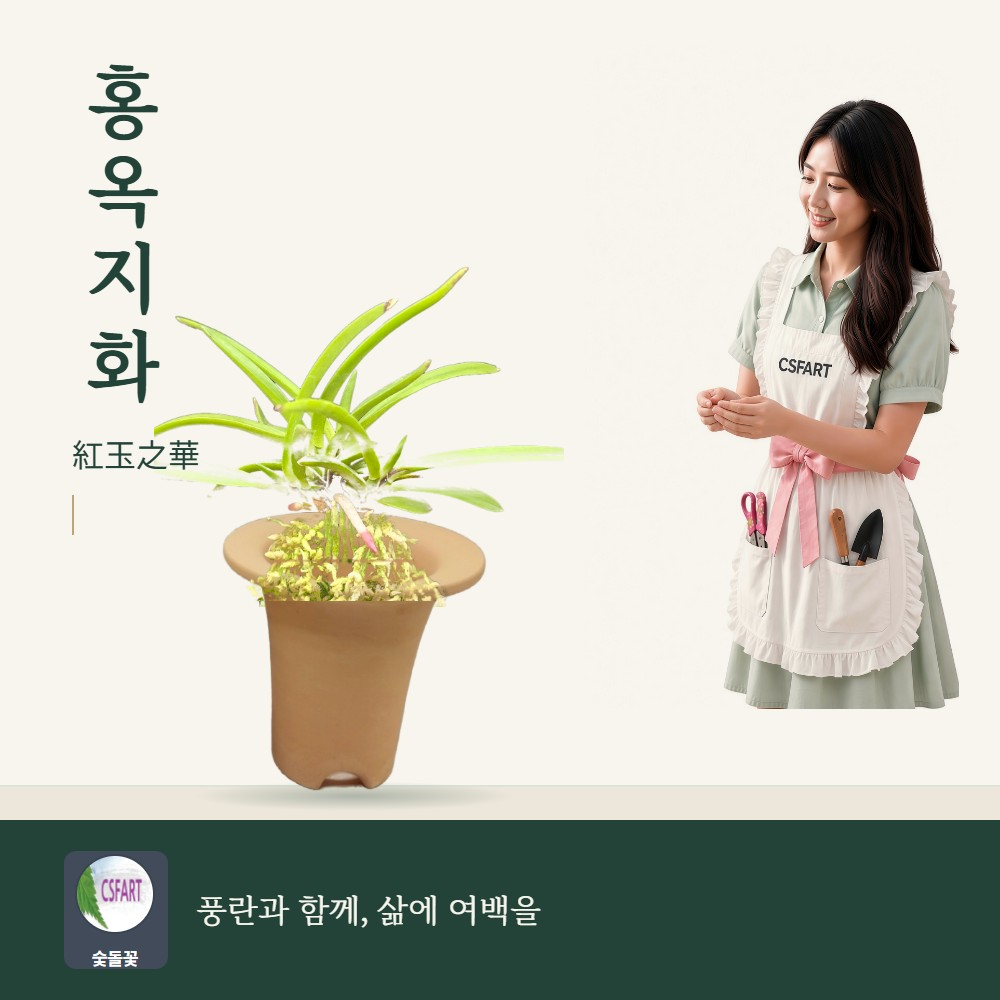
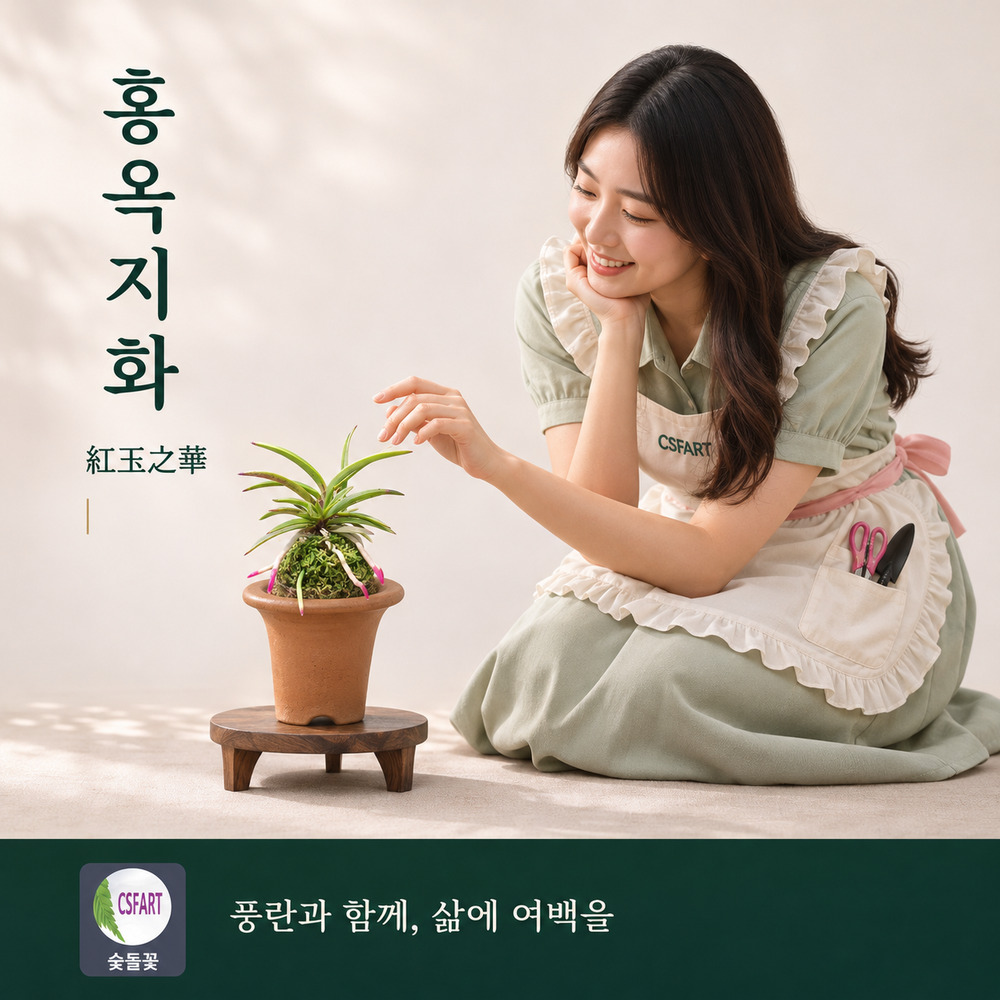
Publish Hongokjihwa 0001 with approved brand and buy links

diff --git a/index.html b/index.html
@@ -1,3 +1,3 @@
 <!DOCTYPE html>
 
-<html lang="ko"><head><script defer="True" src="https://gomire-csfart.github.io/analytics.js"></script><meta charset="utf-8"/><meta content="width=device-width,initial-scale=1" name="viewport"/><meta content="index,follow" name="robots"/><meta content="풍란·부귀란 품종별 실물사진과 개체별 상품정보를 소개하는 숯돌꽃 난농원 CSFART 카탈로그." name="description"/><link href="https://gomire-csfart.github.io/csfart-catalog/" rel="canonical"/><title>풍란·부귀란 품종 카탈로그 | 숯돌꽃 난농원 CSFART</title><link href="assets/site.css" rel="stylesheet"/><link href="assets/catalog-search.css" rel="stylesheet"/></head><body><header><div class="brandbar"><a class="brand" href="index.html"><img alt="CSFART" src="assets/logo.png"/><span><b>CSFART</b><small>숯돌꽃 난농원</small></span></a><span class="private">CSFART 상품 안내</span></div><div class="catalog-search-shell"><form action="search.html" class="catalog-search-form" method="get" role="search"><label class="sr-only" for="catalog-search">품종 검색</label><input aria-label="품종 검색어" autocomplete="off" id="catalog-search" inputmode="search" maxlength="45" name="q" placeholder="품종명·초성·분류 검색  예) 비연, ㅂㅇ, 복륜" type="search"/><button class="catalog-search-submit" type="submit">검색</button></form><button aria-expanded="false" aria-label="품종 검색창 열기" class="catalog-search-toggle" type="button"><svg aria-hidden="true" height="22" viewbox="0 0 24 24" width="22"><circle cx="11" cy="11" fill="none" r="6.5" stroke="currentColor" stroke-width="2"></circle><path d="m16 16 5 5" stroke="currentColor" stroke-width="2"></path></svg><span>검색</span></button></div><nav aria-label="품종 분류"><a href="category/plain.html">무지</a><a href="category/stripe.html">호·중반</a><a href="category/margin.html">복륜</a><a href="category/special.html">특예</a><a href="category/pattern.html">호반</a><a href="category/flower.html">화물</a><a href="category/beginner.html">입문·기타란</a><a href="category/seokgok.html">석곡</a><a href="category/supplies.html">자재</a></nav><div aria-hidden="true" class="swipe-hint">옆으로 밀면 메뉴가 더 있어요 ›</div></header><main><section class="hero"><div class="eyebrow">CSFART ORCHID COLLECTION</div><h1>숯돌꽃 난농원</h1><p>실제 판매 개체 사진과 상세 설명으로 만나는 풍란 도감</p></section><h2>품종 둘러보기</h2><div class="cat-grid"><a class="cat" href="category/plain.html"><div class="cat-img"><img alt="동환 0001 대표 실사진" src="images/donghwan0001/actual_01.jpg"/></div><div class="cat-label"><strong>무지</strong><small>동환 0001 · 취선 1023 · 요산 1024 · 상품 3개</small></div></a><a class="cat" href="category/stripe.html"><div class="cat-img"><img alt="금광금 1521 황호 실사진" src="images/geumgwanggeum1521/actual_01.jpg"/></div><div class="cat-label"><strong>호·중반</strong><small>백결 · 금두 6121 · 보금 3811 · 금광금 1521 · 금직 4501 · 음풍 0001 · 직희 1001 · 백록 1023 · 대장금 1023 · 취월호 1209 · 무쌍금 1024 · 천지연 1026 · 상품 12건</small></div></a><a class="cat" href="category/margin.html"><div class="cat-img"><img alt="옥금 풍란 대표 실물사진" src="images/okgeum/actual_01.jpg"/></div><div class="cat-label"><strong>복륜</strong><small>옥금 · 서시 · 부귀전 1022 · 태백령 1023 · 백옥루 1024 · 서학 1026 · 상품 6개</small></div></a><a class="cat" href="category/special.html"><div class="cat-img"><img alt="흑악묵 1025 터지는 묵예 풍란 실사" src="images/heukakmuk1025/CSFART흑악묵_1025_01.jpg"/></div><div class="cat-label"><strong>특예</strong><small>흑악묵 1025 · 상품 1건</small></div></a><a class="cat" href="category/pattern.html"><div class="cat-img"><img alt="황귀전 0001 실물사진" src="images/hwangguijeon0001/actual_01.jpg"/></div><div class="cat-label"><strong>호반</strong><small>황귀전 0001 · 금루각 0002 · 천재호반 1023 · 금유황 0001 · 승문지광 0001 · 화영 0001 · 상품 6건</small></div></a><a class="cat" href="category/flower.html"><div class="cat-img"><img alt="홍풍 0001 비개화 상품사진" src="images/hongpung0001/actual_01.jpg"/></div><div class="cat-label"><strong>화물</strong><small>뇌산 0001 · 홍야 0001 · 홍풍 0001 · 홍백설 0001 · 경미인 0001 · 비연 0001 · 비취 0001 · 부용 0001 · 취화전 0001 · 상품 9건</small></div></a><a class="cat" href="category/beginner.html"><div class="cat-img"><img alt="서출도 0001 복륜 미니포트 입문용 풍란" src="images/seochuldo0001/actual_01.jpg"/></div><div class="cat-label"><strong>입문·기타란</strong><small>오동 0001 · 해옥보 0001 · 풍명전 0001 · 홍녹보 0001 · 동출도 0001 · 어성복륜 0001 · 흑진주 0001 · 백운각 0001 · 서출도 0001 · 상품 9개</small></div></a><a class="cat" href="category/seokgok.html"><div class="cat-img"><img alt="석곡 융단 0001 실물 사진" src="images/yungdan0001/융단_0001_01.jpg"/></div><div class="cat-label"><strong>석곡</strong><small>융단 0001 · 상품 1건</small></div></a><a class="cat" href="category/supplies.html"><div class="cat-img"><img src="images/sutaemang/mesh_main.jpg" alt="수태망 공동심기용 자재 대표 실사"></div><div class="cat-label"><strong>자재</strong><small>수태망(수태망완성품) · 풍란교정봉 · 상품 2개</small></div></a></div><p class="muted">등록 상품: 뇌산 0001 · 융단 0001 · 금루각 0002 · 동출도 0001 · 음풍 0001 · 금직 4501 · 백결 단엽 0001 · 옥금(玉錦) 풍란 · 서시 1001 풍란 · 금두(金兜) 6121 황호 풍란 · 보금(寶錦) 3811 백황호 풍란 · 동환(童丸) 0001 무지 두엽 · 홍야(紅夜) 0001 색화 · 부귀전 1022 · 직희 1001 · 홍백설 0001 · 경미인 0001 · 취선 1023 · 백록 1023 · 대장금 1023 · 천재호반 1023 · 태백령 1023 · 요산 1024 · 취월호 1209 · 무쌍금 1024 · 백옥루 1024 · 흑악묵 1025 · 금유황 0001 · 백운각 0001 · 천지연 1026 · 서학 1026 · 서출도 0001 · 어성복륜 0001 · 홍녹보 0001 · 풍명전 0001 · 해옥보 0001 · 오동 0001 · 비취 0001 · 부용 0001 · 취화전 0001 · 화영 0001</p></main><footer>CSFART · 숯돌꽃 난농원 · CSFART 상품 도감</footer><script defer="True" src="assets/catalog-search.js"></script></body></html>
+<html lang="ko"><head><script defer="True" src="https://gomire-csfart.github.io/analytics.js"></script><meta charset="utf-8"/><meta content="width=device-width,initial-scale=1" name="viewport"/><meta content="index,follow" name="robots"/><meta content="풍란·부귀란 품종별 실물사진과 개체별 상품정보를 소개하는 숯돌꽃 난농원 CSFART 카탈로그." name="description"/><link href="https://gomire-csfart.github.io/csfart-catalog/" rel="canonical"/><title>풍란·부귀란 품종 카탈로그 | 숯돌꽃 난농원 CSFART</title><link href="assets/site.css" rel="stylesheet"/><link href="assets/catalog-search.css" rel="stylesheet"/></head><body><header><div class="brandbar"><a class="brand" href="index.html"><img alt="CSFART" src="assets/logo.png"/><span><b>CSFART</b><small>숯돌꽃 난농원</small></span></a><span class="private">CSFART 상품 안내</span></div><div class="catalog-search-shell"><form action="search.html" class="catalog-search-form" method="get" role="search"><label class="sr-only" for="catalog-search">품종 검색</label><input aria-label="품종 검색어" autocomplete="off" id="catalog-search" inputmode="search" maxlength="45" name="q" placeholder="품종명·초성·분류 검색  예) 비연, ㅂㅇ, 복륜" type="search"/><button class="catalog-search-submit" type="submit">검색</button></form><button aria-expanded="false" aria-label="품종 검색창 열기" class="catalog-search-toggle" type="button"><svg aria-hidden="true" height="22" viewbox="0 0 24 24" width="22"><circle cx="11" cy="11" fill="none" r="6.5" stroke="currentColor" stroke-width="2"></circle><path d="m16 16 5 5" stroke="currentColor" stroke-width="2"></path></svg><span>검색</span></button></div><nav aria-label="품종 분류"><a href="category/plain.html">무지</a><a href="category/stripe.html">호·중반</a><a href="category/margin.html">복륜</a><a href="category/special.html">특예</a><a href="category/pattern.html">호반</a><a href="category/flower.html">화물</a><a href="category/beginner.html">입문·기타란</a><a href="category/seokgok.html">석곡</a><a href="category/supplies.html">자재</a></nav><div aria-hidden="true" class="swipe-hint">옆으로 밀면 메뉴가 더 있어요 ›</div></header><main><section class="hero"><div class="eyebrow">CSFART ORCHID COLLECTION</div><h1>숯돌꽃 난농원</h1><p>실제 판매 개체 사진과 상세 설명으로 만나는 풍란 도감</p></section><h2>품종 둘러보기</h2><div class="cat-grid"><a class="cat" href="category/plain.html"><div class="cat-img"><img alt="동환 0001 대표 실사진" src="images/donghwan0001/actual_01.jpg"/></div><div class="cat-label"><strong>무지</strong><small>동환 0001 · 취선 1023 · 요산 1024 · 상품 3개</small></div></a><a class="cat" href="category/stripe.html"><div class="cat-img"><img alt="금광금 1521 황호 실사진" src="images/geumgwanggeum1521/actual_01.jpg"/></div><div class="cat-label"><strong>호·중반</strong><small>백결 · 금두 6121 · 보금 3811 · 금광금 1521 · 금직 4501 · 음풍 0001 · 직희 1001 · 백록 1023 · 대장금 1023 · 취월호 1209 · 무쌍금 1024 · 천지연 1026 · 상품 12건</small></div></a><a class="cat" href="category/margin.html"><div class="cat-img"><img alt="옥금 풍란 대표 실물사진" src="images/okgeum/actual_01.jpg"/></div><div class="cat-label"><strong>복륜</strong><small>옥금 · 서시 · 부귀전 1022 · 태백령 1023 · 백옥루 1024 · 서학 1026 · 상품 6개</small></div></a><a class="cat" href="category/special.html"><div class="cat-img"><img alt="흑악묵 1025 터지는 묵예 풍란 실사" src="images/heukakmuk1025/CSFART흑악묵_1025_01.jpg"/></div><div class="cat-label"><strong>특예</strong><small>흑악묵 1025 · 상품 1건</small></div></a><a class="cat" href="category/pattern.html"><div class="cat-img"><img alt="황귀전 0001 실물사진" src="images/hwangguijeon0001/actual_01.jpg"/></div><div class="cat-label"><strong>호반</strong><small>황귀전 0001 · 금루각 0002 · 천재호반 1023 · 금유황 0001 · 승문지광 0001 · 화영 0001 · 상품 6건</small></div></a><a class="cat" href="category/flower.html"><div class="cat-img"><img alt="홍풍 0001 비개화 상품사진" src="images/hongpung0001/actual_01.jpg"/></div><div class="cat-label"><strong>화물</strong><small>뇌산 0001 · 홍야 0001 · 홍풍 0001 · 홍백설 0001 · 홍옥지화 0001 · 경미인 0001 · 비연 0001 · 비취 0001 · 부용 0001 · 취화전 0001 · 상품 10건</small></div></a><a class="cat" href="category/beginner.html"><div class="cat-img"><img alt="서출도 0001 복륜 미니포트 입문용 풍란" src="images/seochuldo0001/actual_01.jpg"/></div><div class="cat-label"><strong>입문·기타란</strong><small>오동 0001 · 해옥보 0001 · 풍명전 0001 · 홍녹보 0001 · 동출도 0001 · 어성복륜 0001 · 흑진주 0001 · 백운각 0001 · 서출도 0001 · 상품 9개</small></div></a><a class="cat" href="category/seokgok.html"><div class="cat-img"><img alt="석곡 융단 0001 실물 사진" src="images/yungdan0001/융단_0001_01.jpg"/></div><div class="cat-label"><strong>석곡</strong><small>융단 0001 · 상품 1건</small></div></a><a class="cat" href="category/supplies.html"><div class="cat-img"><img src="images/sutaemang/mesh_main.jpg" alt="수태망 공동심기용 자재 대표 실사"></div><div class="cat-label"><strong>자재</strong><small>수태망(수태망완성품) · 풍란교정봉 · 상품 2개</small></div></a></div><p class="muted">등록 상품: 뇌산 0001 · 융단 0001 · 금루각 0002 · 동출도 0001 · 음풍 0001 · 금직 4501 · 백결 단엽 0001 · 옥금(玉錦) 풍란 · 서시 1001 풍란 · 금두(金兜) 6121 황호 풍란 · 보금(寶錦) 3811 백황호 풍란 · 동환(童丸) 0001 무지 두엽 · 홍야(紅夜) 0001 색화 · 부귀전 1022 · 직희 1001 · 홍백설 0001 · 경미인 0001 · 취선 1023 · 백록 1023 · 대장금 1023 · 천재호반 1023 · 태백령 1023 · 요산 1024 · 취월호 1209 · 무쌍금 1024 · 백옥루 1024 · 흑악묵 1025 · 금유황 0001 · 백운각 0001 · 천지연 1026 · 서학 1026 · 서출도 0001 · 어성복륜 0001 · 홍녹보 0001 · 풍명전 0001 · 해옥보 0001 · 오동 0001 · 비취 0001 · 부용 0001 · 취화전 0001 · 화영 0001</p></main><footer>CSFART · 숯돌꽃 난농원 · CSFART 상품 도감</footer><script defer="True" src="assets/catalog-search.js"></script></body></html>

diff --git a/category/flower.html b/category/flower.html
@@ -1,5 +1,5 @@
 <!DOCTYPE html>
-<html lang="ko"><head><script defer="" src="https://gomire-csfart.github.io/analytics.js"></script><meta charset="utf-8"/><meta content="width=device-width,initial-scale=1" name="viewport"/><meta content="index,follow" name="robots"/><meta content="화물 풍란 품종 및 실물사진 카탈로그. 숯돌꽃 난농원 CSFART." name="description"/><link href="https://gomire-csfart.github.io/csfart-catalog/category/flower.html" rel="canonical"/><title>화물 풍란 품종 | 숯돌꽃 난농원 CSFART</title><link href="../assets/site.css" rel="stylesheet"/><link href="../assets/catalog-search.css" rel="stylesheet"/></head><body><header><div class="brandbar"><a class="brand" href="../index.html"><img alt="CSFART" src="../assets/logo.png"/><span><b>CSFART</b><small>숯돌꽃 난농원</small></span></a><span class="private">CSFART 상품 안내</span></div><div class="catalog-search-shell"><form action="../search.html" class="catalog-search-form" method="get" role="search"><label class="sr-only" for="catalog-search">품종 검색</label><input aria-label="품종 검색어" autocomplete="off" id="catalog-search" inputmode="search" maxlength="45" name="q" placeholder="품종명·초성·분류 검색  예) 비연, ㅂㅇ, 복륜" type="search"/><button class="catalog-search-submit" type="submit">검색</button></form><button aria-expanded="false" aria-label="품종 검색창 열기" class="catalog-search-toggle" type="button"><svg aria-hidden="true" height="22" viewbox="0 0 24 24" width="22"><circle cx="11" cy="11" fill="none" r="6.5" stroke="currentColor" stroke-width="2"></circle><path d="m16 16 5 5" stroke="currentColor" stroke-width="2"></path></svg><span>검색</span></button></div><nav aria-label="품종 분류"><a href="../category/plain.html">무지</a><a href="../category/stripe.html">호·중반</a><a href="../category/margin.html">복륜</a><a href="../category/special.html">특예</a><a href="../category/pattern.html">호반</a><a aria-current="page" href="../category/flower.html">화물</a><a href="../category/beginner.html">입문·기타란</a><a href="../category/seokgok.html">석곡</a><a href="../category/supplies.html">자재</a></nav><div aria-hidden="true" class="swipe-hint">옆으로 밀면 메뉴가 더 있어요 ›</div></header><main><section class="hero category-hero-photo"><div class="category-hero-copy"><div class="eyebrow">CSFART COLLECTION</div><h1>화물</h1></div><img alt="홍야 풍란 실물 사진" class="category-hero-image" decoding="async" height="118" loading="eager" src="../images/hongya0001/actual_01.jpg" width="148"/></section><h2>화물 상품</h2><div class="product-grid"><a class="product-card" href="../product/chwihwajeon-0001.html"><img alt="취화전 0001 두엽·역엽 풍란 대표 사진" src="../images/chwihwajeon0001/r1.jpg"/><div class="text"><strong>취화전 0001 · 두엽·희엽·역엽</strong><div class="price">12,000원 <small class="muted">정가 15,000원</small></div><small class="muted">두꺼운 두엽 · 역엽 · 흰꽃과 간헐적 녹색 꽃끝</small></div></a><a class="product-card" href="../product/buyong-0001.html"><img alt="부용(芙蓉) 0001 도화 두엽 풍란 대표 사진" src="../images/buyong0001/detail_01.jpg"><div class="text"><strong>부용(芙蓉) 0001 · 도화 두엽 이예품</strong><div class="price">30,000원</div><small class="muted">도화색 · 천소피기 · 2013년 제73호 등록</small></div></a><a class="product-card" href="../product/bijwi-0001.html"><img alt="비취 0001 녹화 풍란 대표 실사" src="../images/bijwi0001/detail_01.jpg"/><div class="text"><strong>비취(翡翠) 0001 · 녹화 풍란</strong><div class="price">10,000원</div><small class="muted">녹색 꽃잎과 거 · 흰 설 · 감성이 강한 엽성</small></div></a><a class="product-card" href="../product/biyeon-0001.html"><img alt="비연 0001 흑자색 꽃대와 잎의 실사진" src="../images/biyeon0001/biyeon_0001_01.jpg"/><div class="text"><strong>비연 0001 · 대륜 적화 풍란</strong><div class="price">25,000원 <small class="muted">정가 30,000원</small></div><small class="muted">흑자색 꽃줄기 · 다홍빛 적화</small></div></a><a class="product-card" href="../product/noesan-0001.html">
+<html lang="ko"><head><script defer="" src="https://gomire-csfart.github.io/analytics.js"></script><meta charset="utf-8"/><meta content="width=device-width,initial-scale=1" name="viewport"/><meta content="index,follow" name="robots"/><meta content="화물 풍란 품종 및 실물사진 카탈로그. 숯돌꽃 난농원 CSFART." name="description"/><link href="https://gomire-csfart.github.io/csfart-catalog/category/flower.html" rel="canonical"/><title>화물 풍란 품종 | 숯돌꽃 난농원 CSFART</title><link href="../assets/site.css" rel="stylesheet"/><link href="../assets/catalog-search.css" rel="stylesheet"/></head><body><header><div class="brandbar"><a class="brand" href="../index.html"><img alt="CSFART" src="../assets/logo.png"/><span><b>CSFART</b><small>숯돌꽃 난농원</small></span></a><span class="private">CSFART 상품 안내</span></div><div class="catalog-search-shell"><form action="../search.html" class="catalog-search-form" method="get" role="search"><label class="sr-only" for="catalog-search">품종 검색</label><input aria-label="품종 검색어" autocomplete="off" id="catalog-search" inputmode="search" maxlength="45" name="q" placeholder="품종명·초성·분류 검색  예) 비연, ㅂㅇ, 복륜" type="search"/><button class="catalog-search-submit" type="submit">검색</button></form><button aria-expanded="false" aria-label="품종 검색창 열기" class="catalog-search-toggle" type="button"><svg aria-hidden="true" height="22" viewbox="0 0 24 24" width="22"><circle cx="11" cy="11" fill="none" r="6.5" stroke="currentColor" stroke-width="2"></circle><path d="m16 16 5 5" stroke="currentColor" stroke-width="2"></path></svg><span>검색</span></button></div><nav aria-label="품종 분류"><a href="../category/plain.html">무지</a><a href="../category/stripe.html">호·중반</a><a href="../category/margin.html">복륜</a><a href="../category/special.html">특예</a><a href="../category/pattern.html">호반</a><a aria-current="page" href="../category/flower.html">화물</a><a href="../category/beginner.html">입문·기타란</a><a href="../category/seokgok.html">석곡</a><a href="../category/supplies.html">자재</a></nav><div aria-hidden="true" class="swipe-hint">옆으로 밀면 메뉴가 더 있어요 ›</div></header><main><section class="hero category-hero-photo"><div class="category-hero-copy"><div class="eyebrow">CSFART COLLECTION</div><h1>화물</h1></div><img alt="홍야 풍란 실물 사진" class="category-hero-image" decoding="async" height="118" loading="eager" src="../images/hongya0001/actual_01.jpg" width="148"/></section><h2>화물 상품</h2><div class="product-grid"><a class="product-card" href="../product/hongokjihwa-0001.html"><img alt="홍옥지화 0001 루비근 홍화 풍란" src="../images/hongokjihwa0001/홍옥지화_0001_01.jpg"/><div class="text"><strong>홍옥지화(紅玉之華) 0001 · 루비근</strong><small class="muted">화물 · 소형 잎 · 홍화와 루비근</small></div></a><a class="product-card" href="../product/chwihwajeon-0001.html"><img alt="취화전 0001 두엽·역엽 풍란 대표 사진" src="../images/chwihwajeon0001/r1.jpg"/><div class="text"><strong>취화전 0001 · 두엽·희엽·역엽</strong><div class="price">12,000원 <small class="muted">정가 15,000원</small></div><small class="muted">두꺼운 두엽 · 역엽 · 흰꽃과 간헐적 녹색 꽃끝</small></div></a><a class="product-card" href="../product/buyong-0001.html"><img alt="부용(芙蓉) 0001 도화 두엽 풍란 대표 사진" src="../images/buyong0001/detail_01.jpg"><div class="text"><strong>부용(芙蓉) 0001 · 도화 두엽 이예품</strong><div class="price">30,000원</div><small class="muted">도화색 · 천소피기 · 2013년 제73호 등록</small></div></a><a class="product-card" href="../product/bijwi-0001.html"><img alt="비취 0001 녹화 풍란 대표 실사" src="../images/bijwi0001/detail_01.jpg"/><div class="text"><strong>비취(翡翠) 0001 · 녹화 풍란</strong><div class="price">10,000원</div><small class="muted">녹색 꽃잎과 거 · 흰 설 · 감성이 강한 엽성</small></div></a><a class="product-card" href="../product/biyeon-0001.html"><img alt="비연 0001 흑자색 꽃대와 잎의 실사진" src="../images/biyeon0001/biyeon_0001_01.jpg"/><div class="text"><strong>비연 0001 · 대륜 적화 풍란</strong><div class="price">25,000원 <small class="muted">정가 30,000원</small></div><small class="muted">흑자색 꽃줄기 · 다홍빛 적화</small></div></a><a class="product-card" href="../product/noesan-0001.html">
 <img alt="뇌산 0001 풍란 잎과 뿌리 사진" src="../images/noesan0001/noesan_0001_photo_01.jpg"/>
 <div class="text"><strong>뇌산(雷山) 0001 · 적화계 풍란</strong><div class="price">20,000원</div>
 <small class="muted">적화 · 니축·니근·월형 붙음매</small></div></a><a class="product-card" href="../product/gyeongmiin-0001.html"><img alt="경미인 0001 소엽 풍란 사진" src="../images/gyeongmiin0001/actual_01.jpg"/><div class="text"><strong>경미인 0001 · 복색화 소엽 풍란</strong><div class="price">20,000원</div><small class="muted">화물 · CSFART경미인_0001</small></div></a><a class="product-card" href="../product/hongbaekseol-0001.html"><img alt="홍백설 0001 풍란 화물 실물 사진 01" src="../images/hongbaekseol0001/홍백설_0001_01.jpg"/><div class="text"><strong>홍백설(紅白雪) 0001</strong><small class="muted">화물 · CSFARTHB0001</small></div></a><a class="product-card" href="../product/hongya-0001.html"><img alt="홍야 0001 실사진" src="../images/hongya0001/actual_01.jpg"/><div class="text"><strong>홍야(紅夜) 0001 · 풍란 색화</strong><div class="price">10,000원</div><small class="muted">분홍빛 색화 · CSFART홍야_0001</small></div></a><a class="product-card" href="../product/hongpung-0001.html"><img alt="홍풍 0001 비개화 녹엽 사진" src="../images/hongpung0001/actual_01.jpg"/><div class="text"><strong>홍풍(紅楓) 0001 · 향기 있는 적화</strong><div class="price">20,000원</div><small class="muted">비개화 판매 개체 · CSFART홍풍_0001</small></div></a></div></main><footer>CSFART · 숯돌꽃 난농원 · CSFART 상품 도감</footer><script defer="True" src="../assets/catalog-search.js"></script></body></html>

diff --git a/product/hongokjihwa-0001.html b/product/hongokjihwa-0001.html
@@ -1,0 +1,28 @@
+<!doctype html>
+<html lang="ko"><head>
+<script defer src="https://gomire-csfart.github.io/analytics.js"></script>
+<meta charset="utf-8"><meta name="viewport" content="width=device-width,initial-scale=1">
+<meta name="robots" content="index,follow">
+<meta name="description" content="홍옥지화(紅玉之華) 0001. 소형의 단정한 잎, 홍화와 루비근이 매력인 풍란. 선명한 분홍 뿌리 생장점은 생육 시기에 나타나며 휴면기·환경에 따라 옅거나 보이지 않을 수 있습니다. ">
+<link rel="canonical" href="https://gomire-csfart.github.io/csfart-catalog/product/hongokjihwa-0001.html">
+<title>홍옥지화(紅玉之華) 0001 | 숯돌꽃 난농원 CSFART</title>
+<meta property="og:type" content="product"><meta property="og:title" content="홍옥지화 0001 · 루비근과 홍화">
+<meta property="og:image" content="https://gomire-csfart.github.io/csfart-catalog/images/hongokjihwa0001/홍옥지화_0001_01.jpg">
+<link rel="stylesheet" href="../assets/site.css"><style>
+.orchid-detail{max-width:900px;margin:0 auto;padding:0 16px 48px}.itemhero{display:grid;grid-template-columns:minmax(0,1fr) minmax(260px,.9fr);gap:26px;align-items:center;margin:20px auto 32px}.itemhero img{width:100%;height:auto;border-radius:12px}h1{font-size:clamp(25px,4vw,38px)}.intro{line-height:1.9;background:#FFFEFA;padding:24px;border-radius:14px}.buy-links{display:flex;flex-wrap:wrap;gap:10px;margin:16px 0}.buy-links a{display:inline-flex;justify-content:center;align-items:center;background:#234238;color:#fff;min-height:48px;border-radius:10px;padding:11px 20px;font-weight:700;text-decoration:none}.buy-links .coupang{background:#915944}.price-notice{font-size:15px;color:#586B60;margin:14px 0}.images figure{margin:0 auto 14px;max-width:800px}.images img{display:block;width:100%;height:auto}.more{margin:24px auto}.more summary{cursor:pointer;background:#D9E4D5;padding:18px;text-align:center;font-weight:700;border-radius:10px}.more[open] summary{margin-bottom:18px}.mobilebuy{display:none}.note{font-size:16px;line-height:1.7;padding:15px 0}@media(max-width:680px){.itemhero{grid-template-columns:1fr}.buy-links{flex-direction:column}.buy-links a{width:100%}.mobilebuy{display:block;position:sticky;bottom:0;z-index:5;background:#234238;padding:10px}.mobilebuy a{color:#fff;display:block;text-align:center;font-weight:700;padding:8px}body{padding-bottom:42px}}
+</style></head><body>
+<header><div class="brandbar"><a class="brand" href="../index.html"><img alt="CSFART" src="../assets/logo.png"><span><b>CSFART</b><small>숯돌꽃 난농원</small></span></a><span class="private">CSFART 상품 안내</span></div><nav aria-label="품종 분류"><a href="../category/plain.html">무지</a><a href="../category/stripe.html">호·중반</a><a href="../category/margin.html">복륜</a><a href="../category/special.html">특예</a><a href="../category/pattern.html">호반</a><a href="../category/flower.html" aria-current="page">화물</a><a href="../category/beginner.html">입문·기타란</a><a href="../category/seokgok.html">석곡</a><a href="../category/supplies.html">자재</a></nav><div aria-hidden="true" class="swipe-hint">옆으로 밀면 메뉴가 더 있어요 ›</div></header>
+<main class="orchid-detail">
+<section class="itemhero"><img src="../images/hongokjihwa0001/홍옥지화_0001_01.jpg" alt="홍옥지화의 분홍빛 루비근 생장점" width="1000" height="1000"><div><p class="eyebrow">CSFART FLOWER COLLECTION</p><h1>홍옥지화(紅玉之華) 0001</h1><p>소형 풍란 · 홍화와 루비근의 이예품</p><p class="price-notice">판매처에서 가격 확인</p><div class="buy-links"><a class="naver" href="https://smartstore.naver.com/csfart/products/8052277776" target="_blank" rel="noopener noreferrer">네이버 스마트스토어에서 구매하기</a><a class="coupang" href="https://www.coupang.com/vp/products/7122046065?vendorItemId=84998838803" target="_blank" rel="noopener noreferrer">쿠팡에서 구매하기</a></div><p class="price-notice">CSFART홍옥지화_0001 · 화물</p></div></section>
+<section class="intro"><h2>작은 잎과 루비근, 홍옥지화의 아름다움</h2>
+<p>홍옥지화는 주천왕과 성성의 실생에서 선별된 소형 품종으로, 두툼한 잎과 약간의 입엽성이 특징입니다. 꽃잎 끝에 붉은빛이 드는 홍화와 뿌리 끝의 루비근을 감상할 수 있습니다.</p>
+<p><strong>사진 속 선명한 분홍 뿌리 끝</strong>은 새 뿌리가 자라는 시기에 나타나는 품종의 매력입니다. 생육 상태와 계절에 따라 색상이 옅거나 보이지 않을 수 있습니다.</p>
+<p>현재 꽃이 없는 시기에는 잎과 뿌리의 모습을 감상하며 기를 수 있습니다. 사진 속 포기의 수형과 크기를 함께 확인해 주세요.</p>
+</section>
+<h2>홍옥지화 0001 자세히 보기</h2><div class="images">
+<figure><img src="../images/hongokjihwa0001/홍옥지화_0001_02.jpg" alt="홍옥지화 0001 신촬영 풍란 포기와 잎, 뿌리의 모습 1" width="1000" height="1000" loading="eager" decoding="async"></figure><figure><img src="../images/hongokjihwa0001/홍옥지화_0001_03.jpg" alt="홍옥지화 0001 신촬영 풍란 포기와 잎, 뿌리의 모습 2" width="1000" height="1000" loading="lazy" decoding="async"></figure>
+<details class="more" open><summary>사진과 품종 설명 더 보기</summary>
+<figure><img src="../images/hongokjihwa0001/홍옥지화_0001_04.jpg" alt="홍옥지화 0001 신촬영 풍란 포기와 잎, 뿌리의 모습 3" width="1000" height="1000" loading="lazy" decoding="async"></figure><figure><img src="../images/hongokjihwa0001/홍옥지화_0001_05.jpg" alt="홍옥지화 0001 풍란 잎과 루비근의 매력 및 기르기 설명 1" width="1000" height="1000" loading="lazy" decoding="async"></figure><figure><img src="../images/hongokjihwa0001/홍옥지화_0001_06.jpg" alt="홍옥지화 0001 풍란 잎과 루비근의 매력 및 기르기 설명 2" width="1000" height="1000" loading="lazy" decoding="async"></figure><figure><img src="../images/hongokjihwa0001/홍옥지화_0001_07.jpg" alt="홍옥지화 0001 풍란 잎과 루비근의 매력 및 기르기 설명 3" width="1000" height="1000" loading="lazy" decoding="async"></figure><figure><img src="../images/hongokjihwa0001/홍옥지화_0001_08.jpg" alt="홍옥지화 0001 풍란 잎과 루비근의 매력 및 기르기 설명 4" width="1000" height="1000" loading="lazy" decoding="async"></figure><figure><img src="../images/hongokjihwa0001/홍옥지화_0001_09.jpg" alt="홍옥지화 0001 풍란 잎과 루비근의 매력 및 기르기 설명 5" width="1000" height="1000" loading="lazy" decoding="async"></figure><figure><img src="../images/hongokjihwa0001/홍옥지화_0001_10.jpg" alt="홍옥지화 0001 풍란 잎과 루비근의 매력 및 기르기 설명 6" width="1000" height="1000" loading="lazy" decoding="async"></figure><figure><img src="../images/hongokjihwa0001/홍옥지화_0001_11.jpg" alt="홍옥지화 0001 풍란 잎과 루비근의 매력 및 기르기 설명 7" width="1000" height="1000" loading="lazy" decoding="async"></figure><figure><img src="../images/hongokjihwa0001/홍옥지화_0001_12.jpg" alt="홍옥지화 0001 풍란 잎과 루비근의 매력 및 기르기 설명 8" width="1000" height="1000" loading="lazy" decoding="async"></figure><figure><img src="../images/hongokjihwa0001/홍옥지화_0001_13.jpg" alt="홍옥지화 0001 풍란 잎과 루비근의 매력 및 기르기 설명 9" width="1000" height="1000" loading="lazy" decoding="async"></figure><figure><img src="../images/hongokjihwa0001/홍옥지화_0001_14.jpg" alt="홍옥지화 풍란 토분과 숯돌꽃 계약 모델이 함께하는 브랜드 연출" width="1000" height="1000" loading="lazy" decoding="async"></figure></details></div>
+<section class="intro"><h2>홍옥지화 기르기</h2><p>밝은 그늘과 통풍이 잘되는 곳에서 기르고, 수태가 마른 뒤 충분히 물을 주세요. 강한 한여름 직사광선은 피하고 겨울 10℃ 이상, 여름 30℃ 미만으로 관리합니다.</p></section>
+<section class="buy"><h2>홍옥지화 0001 구매하기</h2><p>상품 구성과 판매가격은 각 판매처에서 확인해 주세요.</p><div class="buy-links"><a class="naver" href="https://smartstore.naver.com/csfart/products/8052277776" target="_blank" rel="noopener noreferrer">네이버 스마트스토어에서 구매하기</a><a class="coupang" href="https://www.coupang.com/vp/products/7122046065?vendorItemId=84998838803" target="_blank" rel="noopener noreferrer">쿠팡에서 구매하기</a></div></section>
+</main><div class="mobilebuy"><a href="https://smartstore.naver.com/csfart/products/8052277776" target="_blank" rel="noopener noreferrer">홍옥지화 0001 구매하기 · 네이버</a></div><footer>CSFART · 숯돌꽃 난농원</footer></body></html>
